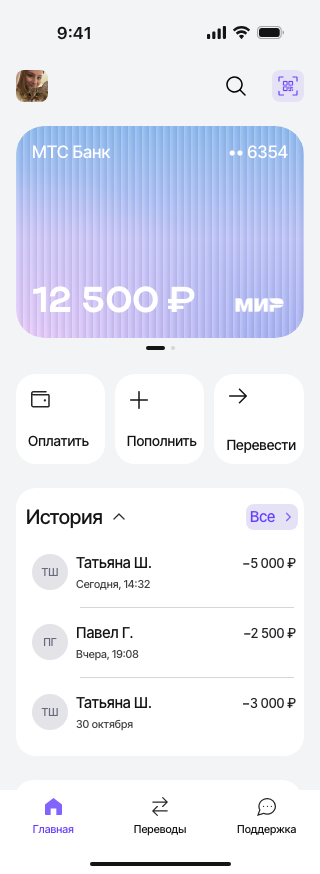
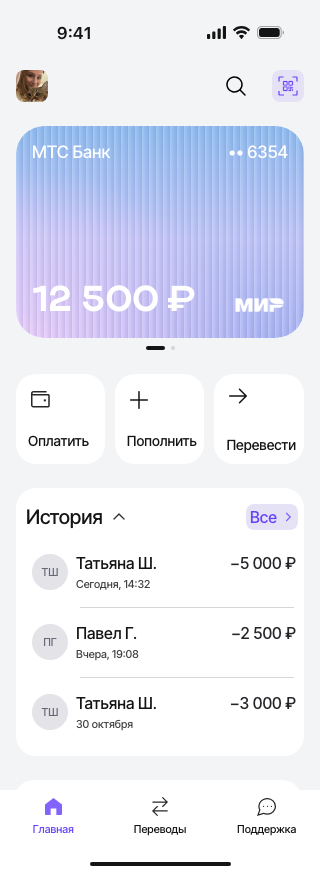
Update ruble home typography to Figma

diff --git a/src/styles.css b/src/styles.css
@@ -1464,3 +1464,15 @@ body:has(.guest-direction-sheet[open]) { overflow:hidden; }
 
 .card-transfer:not(.guest-inline-source) .demo-card-suggestion { position:absolute; z-index:20; top:80px; left:0; width:100%; overflow:hidden; border:1px solid #d5d5da; border-radius:16px; background:white; box-shadow:0 6px 16px #14141414; }
 .card-transfer:not(.guest-inline-source) .demo-card-suggestion[hidden] { display:none; }
+
+/* Updated typography for the ruble-card home screen — Figma 161:4169. */
+.home-screen[data-active-card=debit] .quick-actions button,
+.home-screen[data-active-card=debit] .operation-name,
+.home-screen[data-active-card=debit] .operation-amount,
+.home-screen[data-active-card=debit] .all-history,
+.home-screen[data-active-card=debit] .analytics-tile span { font-size:16px; }
+.home-screen[data-active-card=debit] .bank-card:not(.bank-card--spectrum) .balance { line-height:40px; }
+@media(max-width:360px) {
+  .home-screen[data-active-card=debit] .quick-actions button { font-size:14px; }
+  .home-screen[data-active-card=debit] .analytics-tile span { font-size:14px; }
+}

diff --git a/src/home-screen.js b/src/home-screen.js
@@ -66,6 +66,7 @@ export function createHomeScreen({ data, onNavigate }) {
     island.querySelector('[data-analytics-income]').textContent=money(totals.income,totals.currency);
   }
   function renderOperations() {
+    screen.dataset.activeCard=data.cards[active].id;
     renderAnalytics();
     list.innerHTML = operationsFor(data, data.cards[active].id).slice(0, 3).map(item => `
       <button class="operation" data-operation="${escapeHTML(item.id)}">
